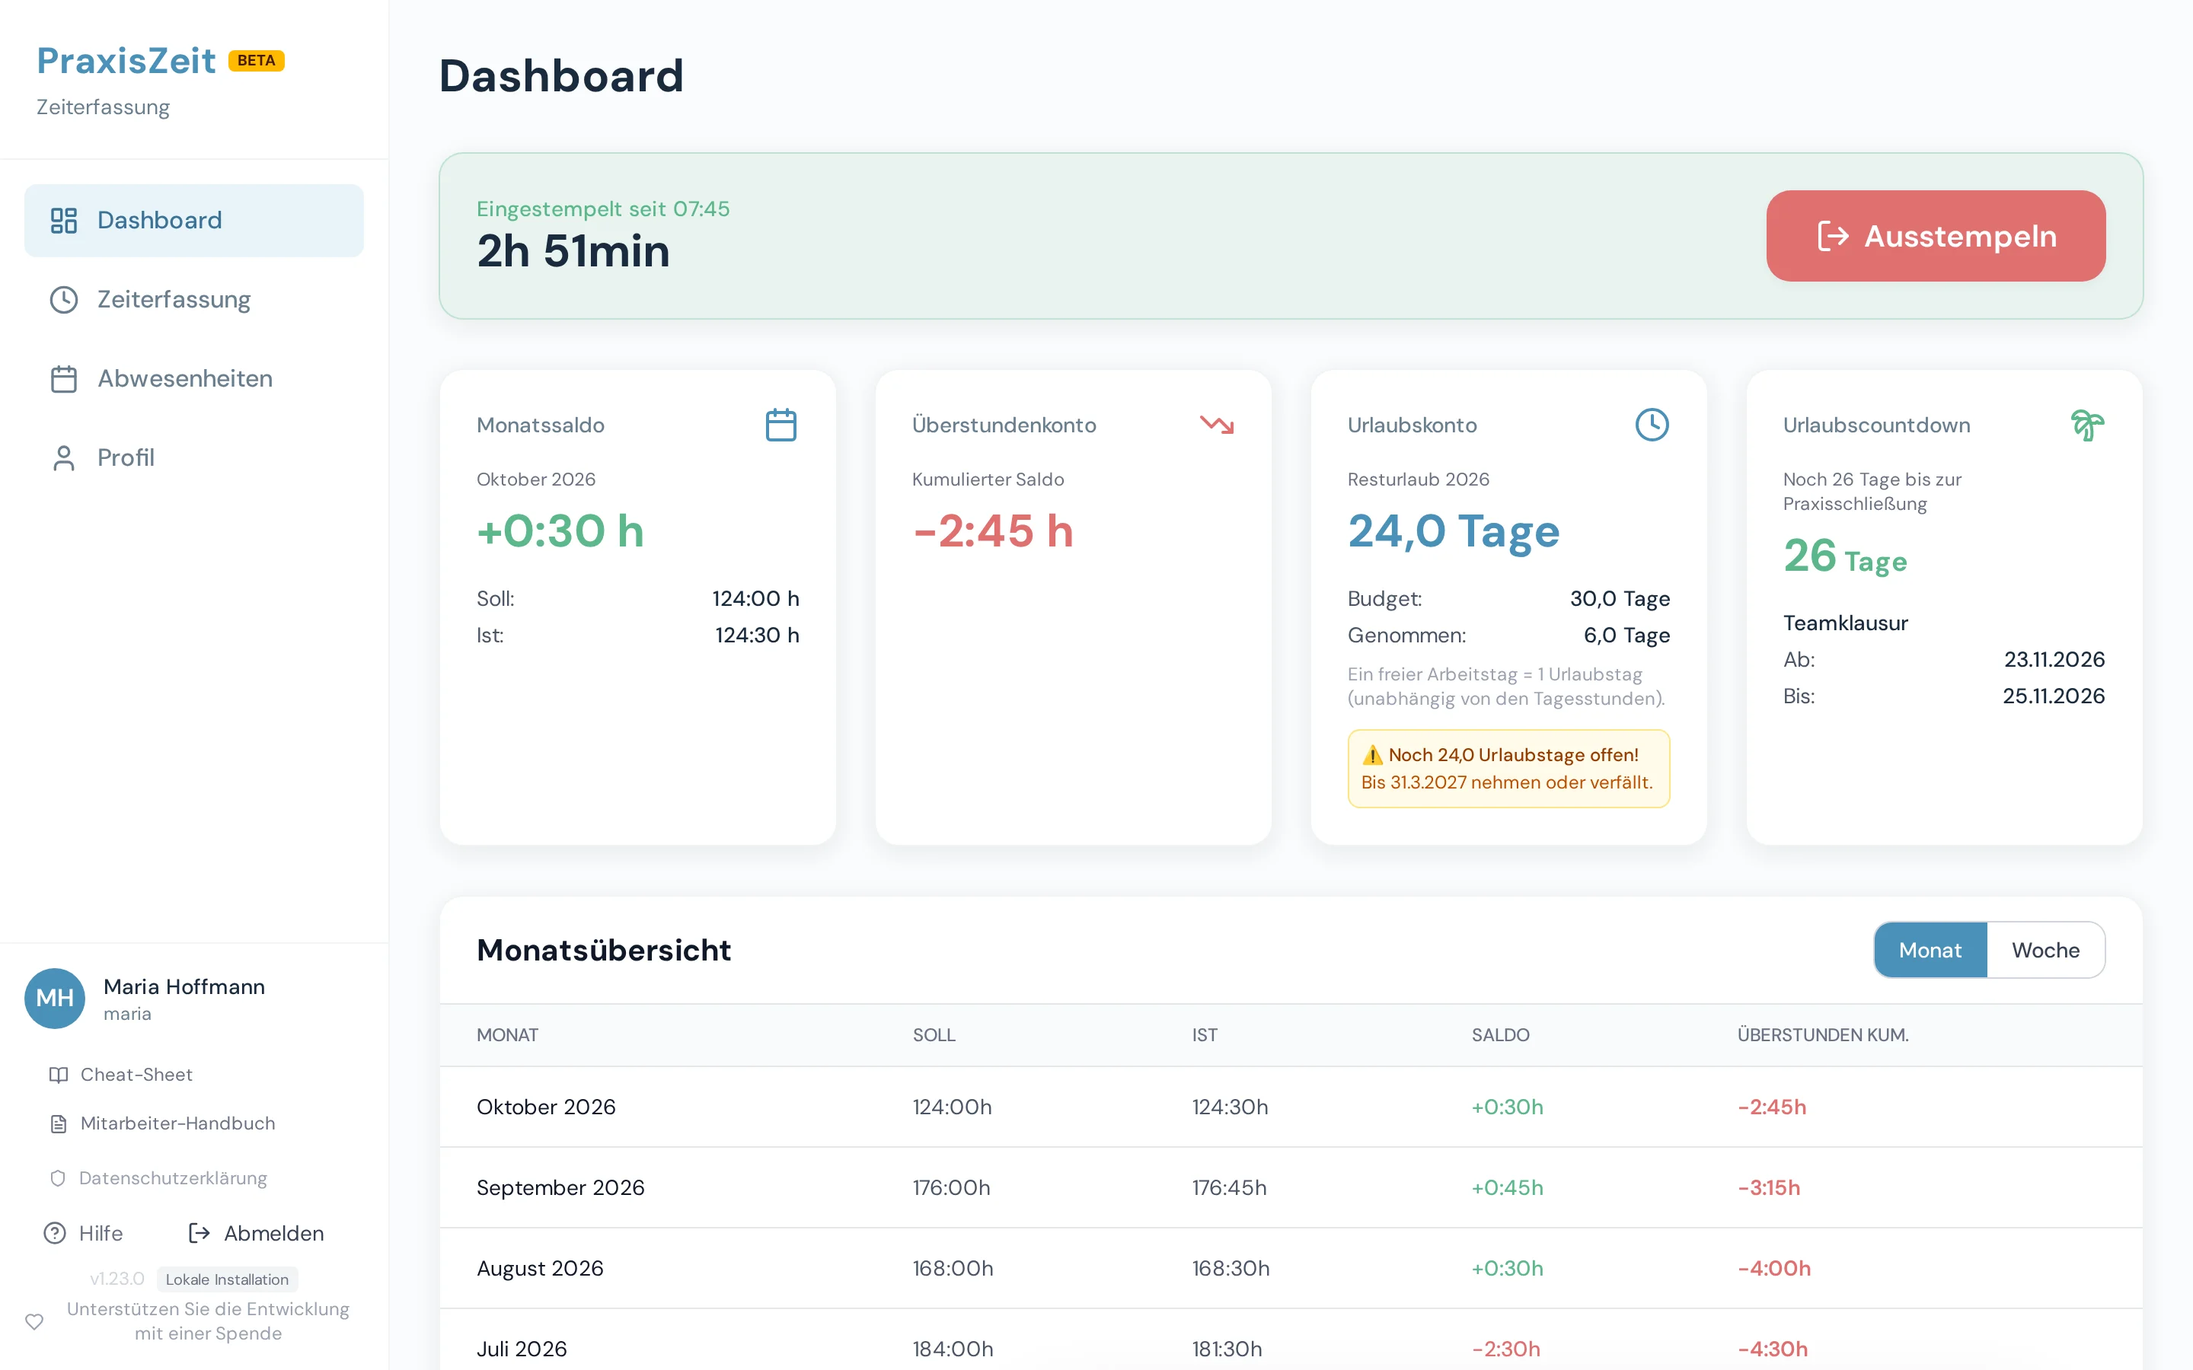
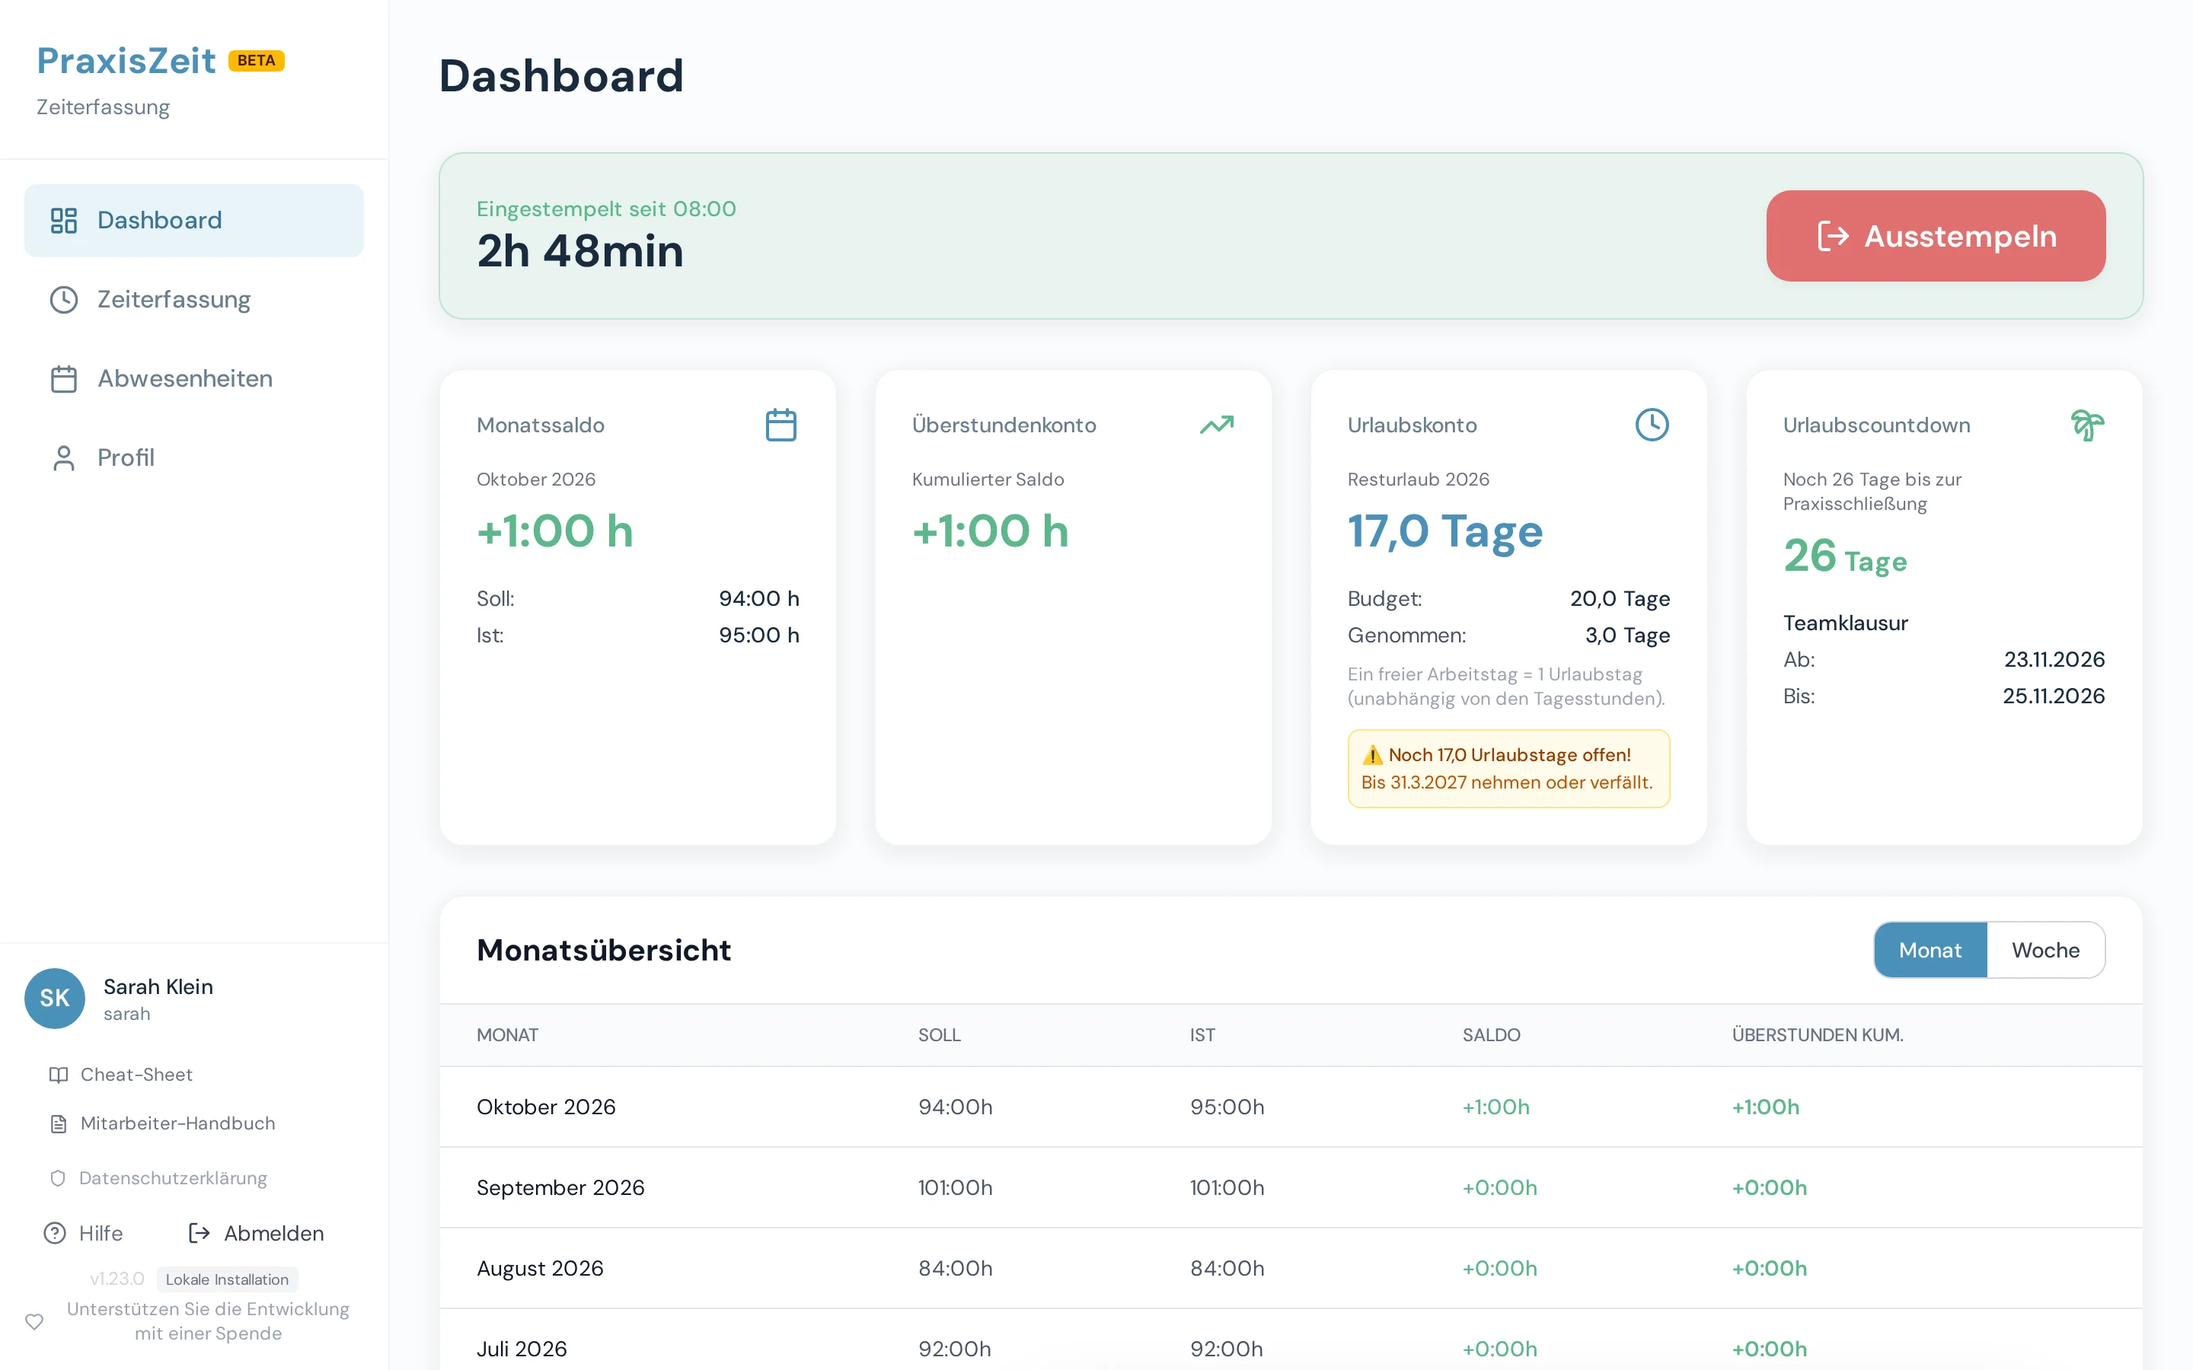
docs(handbuch): lively brochure shots with future team blocks
Seed: future contract snapshots with Arbeitszeit-Blöcke for Thomas, Maria
and Julia (first Monday >= Stichtag+35). New date token {{montag+Nd}} and
crop kind mainTo. br-team shows the whole team at that date, br-uebersicht
uses Sarah (positive balance), br-urlaub shows November. ma-profil and the
two team shots re-captured for the new history/badges.

diff --git a/frontend/src/handbuch/content/broschuere.ts b/frontend/src/handbuch/content/broschuere.ts
@@ -24,19 +24,19 @@ export const BROSCHUERE_SHOTS: BroschuereShot[] = [
   },
   {
     section: 'uebersicht',
-    caption: 'Das Dashboard einer Mitarbeiterin: Stempelkarte, Monatssaldo, Überstundenkonto und Urlaubskonto.',
+    caption: 'Das Dashboard einer Mitarbeiterin: Monatssaldo, Überstundenkonto und Urlaubskonto auf einen Blick.',
     shot: {
       id: 'br-uebersicht',
-      persona: 'maria',
+      persona: 'sarah',
       viewport: 'desktop',
       route: '/',
       crop: 'main',
       markers: [
-        { n: 1, id: 'stempelkarte', locator: { role: 'button', name: 'Ausstempeln', exact: true, within: 'main' }, badge: 'left' },
+        { n: 1, id: 'monatssaldo', locator: { role: 'heading', name: 'Monatssaldo', exact: true }, badge: 'top' },
         { n: 2, id: 'ueberstunden', locator: { role: 'heading', name: 'Überstundenkonto', exact: true }, badge: 'top' },
         { n: 3, id: 'urlaubskonto', locator: { role: 'heading', name: 'Urlaubskonto', exact: true }, badge: 'top' },
       ],
-      alt: 'Dashboard einer Mitarbeiterin mit Stempelkarte, Monatssaldo, Überstundenkonto und Urlaubskonto in Kacheln',
+      alt: 'Dashboard einer Mitarbeiterin mit laufender Stempelkarte und den Kacheln Monatssaldo, Überstundenkonto und Urlaubskonto mit Pluswerten',
     },
   },
   {
@@ -47,26 +47,32 @@ export const BROSCHUERE_SHOTS: BroschuereShot[] = [
       persona: 'admin',
       viewport: 'desktop',
       route: '/admin/team-schedule',
-      crop: 'main',
+      // Stand = erster Montag ab Stichtag + 35 Tagen: dort beginnen die Arbeitszeit-Blöcke aller Demo-Personen (Seed `team_blocks_effective`)
+      prepare: [
+        { fill: { label: 'Stand am', within: 'main' }, value: '{{montag+35d}}' },
+        { waitFor: { text: 'Meyer, Julia', within: 'main' } },
+      ],
+      crop: { mainTo: ['julia'], pad: 32 },
       markers: [
         { n: 1, id: 'stand-am', locator: { label: 'Stand am', within: 'main' }, badge: 'left' },
         { n: 2, id: 'besetzung', locator: { css: 'main >> text=Besetzung >> visible=true' }, badge: 'right' },
-        { n: 3, id: 'sarah', locator: { css: "main >> text='Klein, Sarah'" }, badge: 'right' },
+        { n: 3, id: 'julia', locator: { css: "main >> text='Meyer, Julia'" }, badge: 'right' },
       ],
-      alt: 'Übersicht „Arbeitszeiten im Team“ mit den Arbeitszeit-Blöcken aller Mitarbeitenden als Balken von Montag bis Freitag und der Besetzungszeile',
+      alt: 'Übersicht „Arbeitszeiten im Team“ mit den Arbeitszeit-Blöcken der Mitarbeitenden als Balken von Montag bis Freitag und der Besetzungszeile darüber',
     },
   },
   {
     section: 'urlaub',
-    caption: 'Der Abwesenheitskalender des Teams: Urlaub, Fortbildung und Feiertage im Monat.',
+    caption: 'Der Abwesenheitskalender des Teams: Feiertage und Abwesenheiten auf einen Blick, jede Person mit Kürzel und Kalenderfarbe.',
     shot: {
       id: 'br-urlaub',
       persona: 'maria',
       viewport: 'desktop',
       route: '/absences',
+      prepare: [{ click: { role: 'button', name: 'Nächster Monat', exact: true, within: 'main' } }],
       crop: 'main',
       markers: [],
-      alt: 'Abwesenheitskalender des Teams im Monat mit farbigen Kreisen für Urlaub und Fortbildung sowie beschrifteten Feiertagen',
+      alt: 'Abwesenheitskalender des Teams im November mit farbigen Kürzeln der abwesenden Personen an den Tagen der Teamklausur und dem beschrifteten Feiertag Allerheiligen',
     },
   },
   {

diff --git a/frontend/src/handbuch/dates.ts b/frontend/src/handbuch/dates.ts
@@ -6,12 +6,13 @@
  *   {{stichtag}}     der Stichtag
  *   {{stichtag-Nd}}  N Kalendertage davor, {{stichtag+Nd}} danach
  *   {{werktag-N}}    der N-te Werktag (Mo–Fr) vor dem Stichtag
+ *   {{montag+Nd}}    der erste Montag ab Stichtag + N Tagen (Spiegel: `team_blocks_effective`, N = 35)
  *
  * Feiertage kennt die Regel nicht. Spiegel im Seed: `workday_before` in
  * backend/create_handbuch_testdata.py.
  */
 
-const TOKEN_RE = /\{\{\s*(stichtag(?:([+-])(\d+)d)?|werktag-(\d+))\s*\}\}/g;
+const TOKEN_RE = /\{\{\s*(stichtag(?:([+-])(\d+)d)?|werktag-(\d+)|montag\+(\d+)d)\s*\}\}/g;
 
 function parseIso(day: string): Date {
   if (!/^\d{4}-\d{2}-\d{2}$/.test(day)) throw new Error(`Stichtag ist kein ISO-Datum: ${day}`);
@@ -40,10 +41,17 @@ export function workdayBefore(stichtag: string, n: number): string {
   return iso(d);
 }
 
+/** Erster Montag am oder nach `day` (ISO). */
+export function mondayOnOrAfter(day: string): string {
+  const d = parseIso(day);
+  return iso(addDays(d, (8 - d.getUTCDay()) % 7));
+}
+
 /** Ersetzt alle Datums-Platzhalter in `value`; unbekannte `{{…}}` lösen einen Fehler aus. */
 export function expandDateTokens(value: string, stichtag: string): string {
   const base = parseIso(stichtag);
-  const out = value.replace(TOKEN_RE, (_m, _all, sign?: string, days?: string, wd?: string) => {
+  const out = value.replace(TOKEN_RE, (_m, _all, sign?: string, days?: string, wd?: string, mon?: string) => {
+    if (mon !== undefined) return mondayOnOrAfter(iso(addDays(base, Number(mon))));
     if (wd !== undefined) return workdayBefore(stichtag, Number(wd));
     if (sign === undefined) return iso(base);
     return iso(addDays(base, (sign === '-' ? -1 : 1) * Number(days)));

diff --git a/frontend/src/handbuch/geometry.ts b/frontend/src/handbuch/geometry.ts
@@ -40,6 +40,19 @@ export function computeCrop(
     if (!b) throw new Error(`Ausschnitt '${kind}': keine Box fuer ${kind}`);
     return clampToViewport(b, viewport);
   }
+  if ('mainTo' in kind) {
+    // Breite und Oberkante des Hauptbereichs, unten bei der Unterkante des untersten Markers + pad
+    if (!boxes.main) throw new Error("Ausschnitt mainTo: keine Box fuer main");
+    if (kind.mainTo.length === 0) throw new Error('Ausschnitt mainTo: keine Marker angegeben');
+    let bottom = -Infinity;
+    for (const id of kind.mainTo) {
+      const b = boxes.markers[id];
+      if (!b) throw new Error(`Ausschnitt mainTo: unbekannter Marker '${id}'`);
+      bottom = Math.max(bottom, b.y + b.h);
+    }
+    const m = boxes.main;
+    return clampToViewport({ x: m.x, y: m.y, w: m.w, h: bottom + kind.pad - m.y }, viewport);
+  }
   if (kind.around.length === 0) throw new Error('Ausschnitt around: keine Marker angegeben');
   let x1 = Infinity, y1 = Infinity, x2 = -Infinity, y2 = -Infinity;
   for (const id of kind.around) {

diff --git a/frontend/src/handbuch/geometry.test.ts b/frontend/src/handbuch/geometry.test.ts
@@ -4,6 +4,15 @@ import { assertSingleVisible, boxInside, computeCrop, markerBadgePosition, padde
 const VP = { w: 1440, h: 900 };
 
 describe('computeCrop', () => {
+  it('mainTo: Breite des Hauptbereichs, unten am untersten Marker plus pad', () => {
+    const crop = computeCrop({ mainTo: ['a', 'b'], pad: 20 }, VP, {
+      main: { x: 256, y: 0, w: 1184, h: 900 },
+      markers: { a: { x: 300, y: 50, w: 10, h: 10 }, b: { x: 400, y: 300, w: 10, h: 40 } },
+    });
+    expect(crop).toEqual({ x: 256, y: 0, w: 1184, h: 360 });
+    expect(() => computeCrop({ mainTo: ['x'], pad: 0 }, VP, { main: { x: 0, y: 0, w: 1, h: 1 }, markers: {} })).toThrow(/x/);
+  });
+
   it('main crop equals main box clamped to viewport', () => {
     const crop = computeCrop('main', VP, { main: { x: 256, y: -10, w: 1300, h: 1200 }, markers: {} });
     expect(crop).toEqual({ x: 256, y: 0, w: 1184, h: 900 });

diff --git a/frontend/src/handbuch/dates.test.ts b/frontend/src/handbuch/dates.test.ts
@@ -21,6 +21,12 @@ describe('expandDateTokens', () => {
     expect(workdayBefore('2026-11-02', 1)).toBe('2026-10-30'); // Mo -> Fr
   });
 
+  it('{{montag+Nd}} = erster Montag ab Stichtag + N Tagen (Spiegel des Seeds)', () => {
+    expect(expandDateTokens('{{montag+35d}}', st)).toBe('2026-12-07'); // 02.12. (Mi) -> Mo
+    expect(expandDateTokens('{{montag+35d}}', '2026-10-26')).toBe('2026-11-30'); // 30.11. ist selbst Montag
+    expect(expandDateTokens('{{montag+35d}}', '2026-10-25')).toBe('2026-11-30'); // 29.11. (So) -> Mo
+  });
+
   it('lässt Text ohne Platzhalter unverändert und ersetzt mehrere', () => {
     expect(expandDateTokens('08:00', st)).toBe('08:00');
     expect(expandDateTokens('{{stichtag}} bis {{stichtag+1d}}', st)).toBe('2026-10-28 bis 2026-10-29');

diff --git a/frontend/src/handbuch/content/mitarbeitende.ts b/frontend/src/handbuch/content/mitarbeitende.ts
@@ -424,7 +424,9 @@ const shots: ShotDef[] = [
     persona: 'maria',
     viewport: 'desktop',
     route: '/profile',
-    crop: 'main',
+    // „Meine Arbeitszeit“ ist mit dem künftigen Verlaufseintrag höher: bis „Weitere Einstellungen“ scrollen
+    prepare: [{ scrollTo: { role: 'button', name: 'Weitere Einstellungen', exact: true, within: 'main' } }],
+    crop: { around: ['bearbeiten', 'weitere'], pad: 40 },
     markers: [
       { n: 1, id: 'bearbeiten', locator: { role: 'button', name: 'Bearbeiten', exact: true, within: 'main' }, badge: 'top' },
       { n: 2, id: 'passwort', locator: { role: 'button', name: 'Ändern', exact: true, within: 'main' }, badge: 'top' },

diff --git a/frontend/src/handbuch/types.ts b/frontend/src/handbuch/types.ts
@@ -18,7 +18,7 @@ export type PrepareStep =
 export interface MarkerDef { n: number; id: string; locator: LocatorSpec; badge?: 'left' | 'corner' | 'right' | 'top' }
 export interface ShotDef {
   id: string; persona: Persona; viewport: 'desktop' | 'mobile'; route: string;
-  prepare?: PrepareStep[]; crop?: 'full' | 'main' | 'dialog' | { around: string[]; pad: number };
+  prepare?: PrepareStep[]; crop?: 'full' | 'main' | 'dialog' | { around: string[]; pad: number } | { mainTo: string[]; pad: number };
   markers: MarkerDef[]; alt: string; settings?: Record<string, boolean | string | number>;
 }
 export interface Step { n?: number; text: Inline }

diff --git a/backend/create_handbuch_testdata.py b/backend/create_handbuch_testdata.py
@@ -104,6 +104,37 @@ SARAH_OLD_BLOCKS = [
     {"blocks": [{"start": "08:00", "end": "12:00"}], "pause_minutes": 0} for _ in range(5)
 ]
 
+# Zukünftige Arbeitszeit-Blöcke (Aufnahme „Arbeitszeiten im Team“, Ruling R31): je Person ein
+# Vertrags-Snapshot ab dem ersten Montag ≥ Stichtag + 35 Tage. Das Tagessoll entspricht den
+# HEUTE gültigen Wochenstunden; vor dem Datum ändert sich keine Rechnung. Nicht Petra: ihr
+# Vertragsverlauf ist Aufnahmegegenstand (pl-vertragsverlauf, pl-bearbeiten).
+TEAM_BLOCKS_LEAD_DAYS = 35
+
+
+def _blk(*spans, pause=0):
+    return {"blocks": [{"start": a, "end": b} for a, b in spans], "pause_minutes": pause}
+
+
+_NONE = {"blocks": [], "pause_minutes": 0}
+# Thomas 38,5 h: Mo–Do 8 h (07:30–12:30 + 14:00–17:00), Fr 6,5 h (07:30–14:00)
+THOMAS_FUTURE_BLOCKS = [_blk(("07:30", "12:30"), ("14:00", "17:00")) for _ in range(4)] + [
+    _blk(("07:30", "14:00"))]
+# Maria 40 h: Mo–Fr 8 h (07:30–12:00 + 13:00–16:30)
+MARIA_FUTURE_BLOCKS = [_blk(("07:30", "12:00"), ("13:00", "16:30")) for _ in range(5)]
+# Julia 10 h (Minijob): Di und Do 08:00–13:00
+JULIA_FUTURE_BLOCKS = [_NONE, _blk(("08:00", "13:00")), _NONE, _blk(("08:00", "13:00")), _NONE]
+FUTURE_TEAM_BLOCKS = {
+    "thomas": THOMAS_FUTURE_BLOCKS, "maria": MARIA_FUTURE_BLOCKS, "julia": JULIA_FUTURE_BLOCKS,
+}
+
+
+def team_blocks_effective(stichtag: date) -> date:
+    """Erster Montag ≥ Stichtag + 35 Tage. Spiegel: ``{{montag+35d}}`` in
+    frontend/src/handbuch/dates.ts."""
+    d = stichtag + timedelta(days=TEAM_BLOCKS_LEAD_DAYS)
+    return d + timedelta(days=(7 - d.weekday()) % 7)
+
+
 # ── Personas ──────────────────────────────────────────────────────────────────
 # ``day_hours`` = Tagesplan (Mo–Fr); None = gleichmäßig auf work_days_per_week.
 EMPLOYEES = [
@@ -428,6 +459,23 @@ def create_contract_history(db, users: list, stichtag: date) -> None:
                              created_at=_berlin(month_start - timedelta(days=6), 11, 20)))
         petra.vacation_days = new_days  # User-Zeile spiegelt die jüngste Zeile
         print(f"  ✓ Petra: Urlaubsanspruch 16 → 18 ab {month_start}")
+
+    effective = team_blocks_effective(stichtag)
+    for name, blocks in FUTURE_TEAM_BLOCKS.items():
+        user = by_name.get(name)
+        if not user:
+            continue
+        emp = next(e for e in EMPLOYEES if e["username"] == name)
+        # Ausgangsvertrag wie ihn die App beim ersten Eintrag einfriert, dann die künftige Zeile
+        db.add(_snapshot_row(user, base_from, weekly_hours=emp["weekly_hours"],
+                             work_days=emp["work_days_per_week"], vacation_days=user.vacation_days,
+                             day_hours=emp.get("day_hours"), note="Ausgangsvertrag",
+                             created_at=_berlin(base_from, 9, 10)))
+        db.add(_snapshot_row(user, effective, weekly_hours=None, work_days=None,
+                             vacation_days=user.vacation_days, blocks=blocks,
+                             note="Feste Arbeitszeiten eingeführt",
+                             created_at=_berlin(stichtag - timedelta(days=3), 15, 30)))
+        print(f"  ✓ {user.first_name}: Arbeitszeit-Blöcke ab {effective}")
     db.commit()
 
 

diff --git a/backend/tests/test_handbuch_seed_pg.py b/backend/tests/test_handbuch_seed_pg.py
@@ -877,7 +877,7 @@ def test_contract_history_and_vacation_request_have_realistic_timestamps(full_te
         return rows, vrs
 
     rows, vrs = _read(app_engine, collect)
-    assert len(rows) == 4
+    assert len(rows) == 10  # Sarah 2, Petra 2, Thomas/Maria/Julia je 2 (Ausgangsvertrag + künftige Blöcke)
     for eff, note, created in rows:
         c = created.astimezone(berlin).date()
         assert c < STICHTAG
@@ -906,3 +906,40 @@ def test_seed_absences_are_never_legacy_rows(full_tenant, app_engine, monkeypatc
     legacy, total = _read(app_engine, count)
     assert total > 0
     assert legacy == 0
+
+
+def test_team_blocks_are_future_snapshots_with_unchanged_soll(full_tenant, app_engine, monkeypatch):
+    """R31: Thomas, Maria und Julia haben eine ZUKÜNFTIGE Zeile mit Arbeitszeit-Blöcken
+    (erster Montag >= Stichtag + 35 Tage). Das Soll am Stichtag und die Wochenstunden
+    der neuen Zeile gleichen den heute gültigen; Petra bekommt keine."""
+    from decimal import Decimal
+    from app.models.working_hours_change import WorkingHoursChange
+    from app.services import calculation_service
+    seed = _load_seed()
+    _run_seed(app_engine, seed, monkeypatch)
+    effective = seed.team_blocks_effective(STICHTAG)
+    assert effective.weekday() == 0
+    assert seed.team_blocks_effective(date(2026, 10, 28)) == date(2026, 12, 7)  # wie {{montag+35d}} in dates.test.ts
+    assert effective >= STICHTAG + timedelta(days=35) and effective < STICHTAG + timedelta(days=42)
+
+    def collect(db):
+        users = {u.username: u for u in db.query(User).filter(User.tenant_id == TENANT_ID)}
+        out = {}
+        for name, u in users.items():
+            rows = db.query(WorkingHoursChange).filter(
+                WorkingHoursChange.tenant_id == TENANT_ID, WorkingHoursChange.user_id == u.id,
+                WorkingHoursChange.effective_from > STICHTAG).all()
+            now = calculation_service.get_schedule_for_date(db, u, STICHTAG)
+            future = calculation_service.get_schedule_for_date(db, u, effective)
+            out[name] = (
+                [(r.effective_from, r.blocks is not None) for r in rows],
+                Decimal(str(now.weekly_hours)), Decimal(str(future.weekly_hours)), Decimal(str(u.weekly_hours)),
+            )
+        return out
+
+    r = _read(app_engine, collect)
+    for name in ("thomas", "maria", "julia"):
+        rows, now_h, future_h, user_h = r[name]
+        assert rows == [(effective, True)], name
+        assert now_h == user_h == future_h, (name, now_h, future_h, user_h)
+    assert r["petra"][0] == [] and r["sarah"][0] == []
